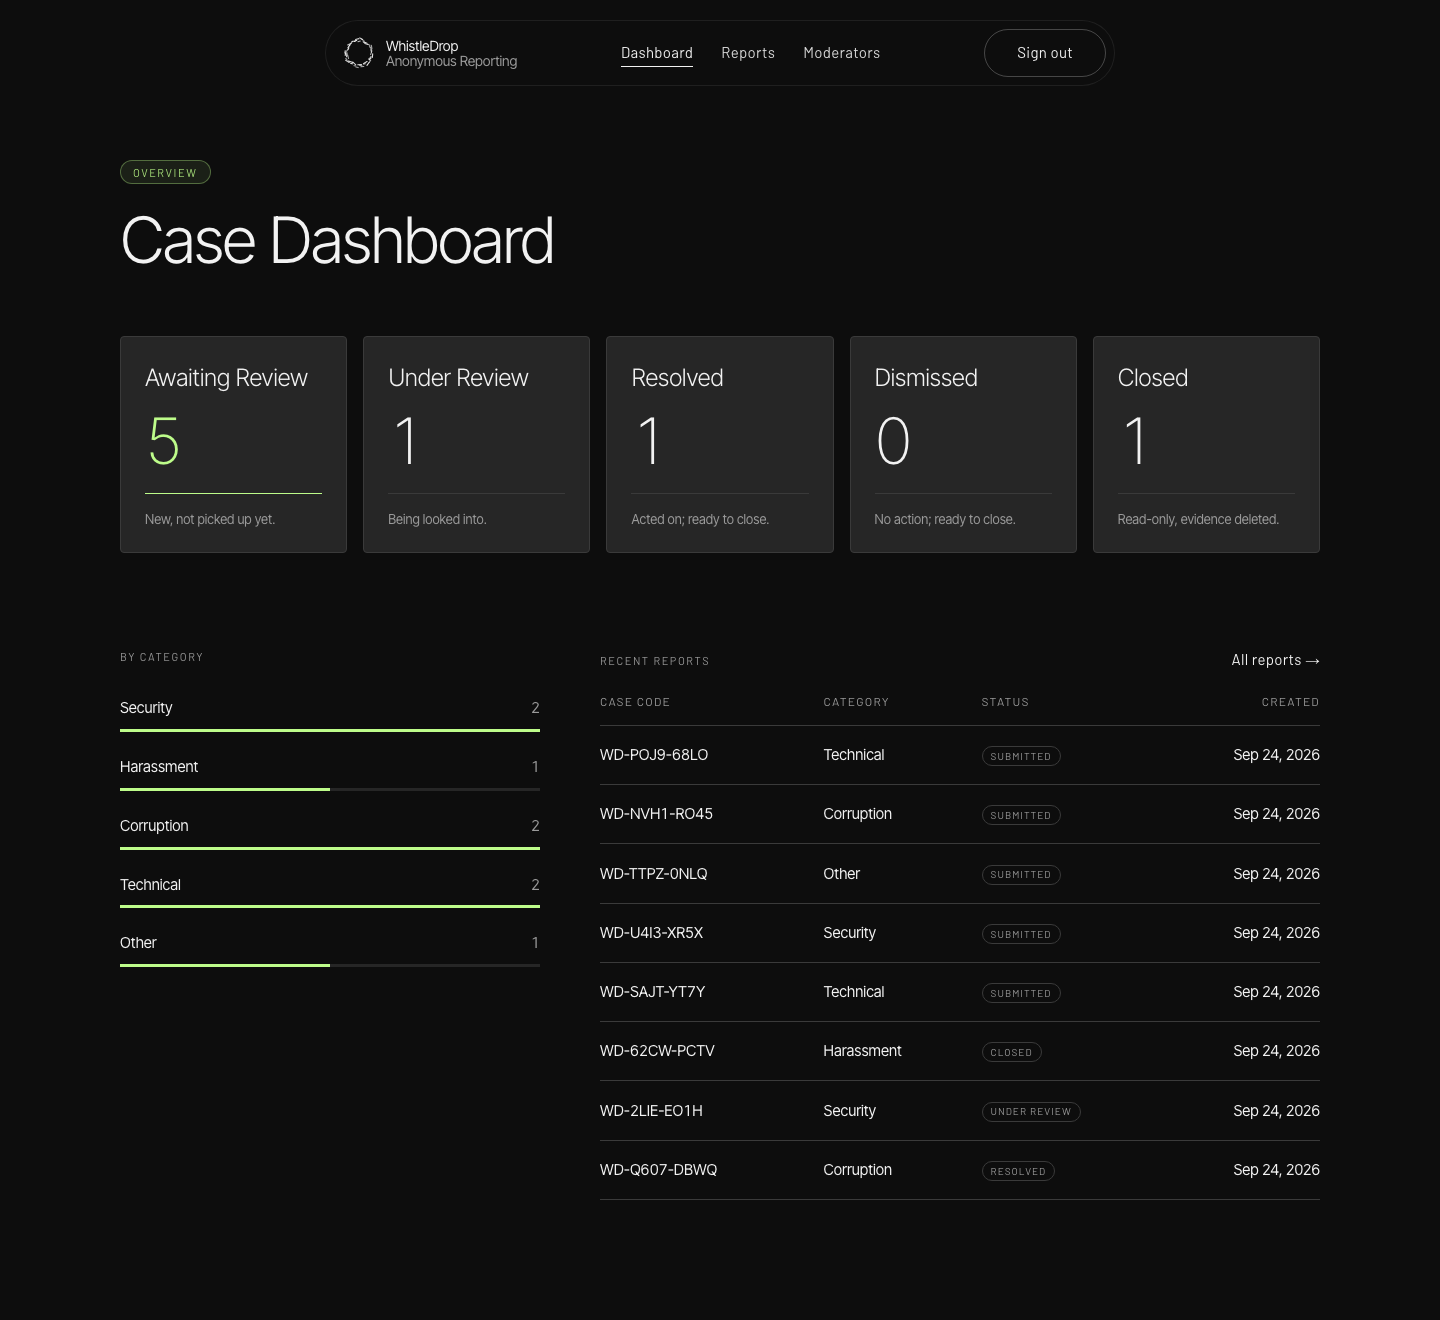
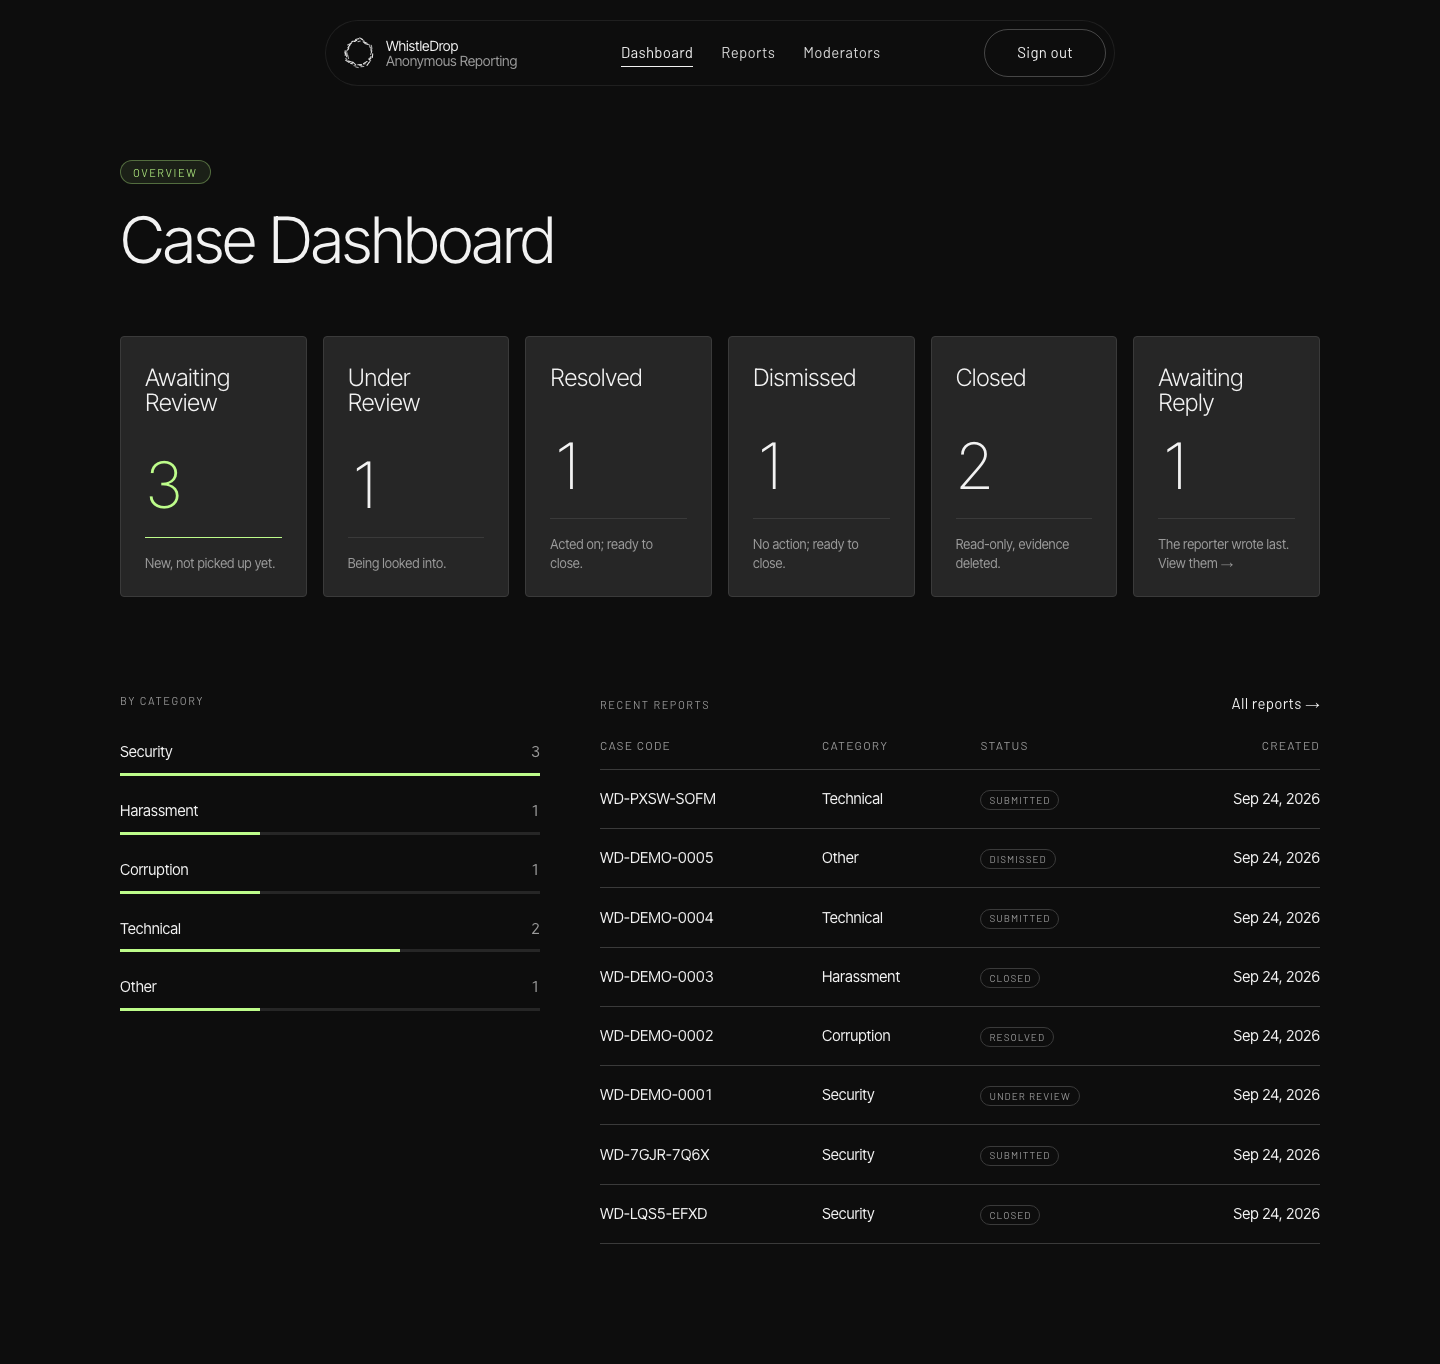
docs: add demo preview and regenerated screenshots
- README (app and landing): a Demo section with the preview GIF linked to
  the live site's walkthrough, the chapter list and DUMMY_SIGN_INS.txt;
  `npm run record:demo` documented; CSP media-src and the self-hosted
  video noted.
- docs/demo/demo-preview.gif: a 13-second loop of the conversation step.
- docs/screenshots: regenerated with only the demo accounts and the
  fictional WD-DEMO sample cases.

diff --git a/whistledrop/README.md b/whistledrop/README.md
@@ -13,6 +13,23 @@
 - **Source:** https://github.com/maanit-gupta/WhistleDrop
 - **Try it as a moderator:** public demo accounts and sample case codes are in [`DUMMY_SIGN_INS.txt`](DUMMY_SIGN_INS.txt) (see [Demo accounts](#demo-accounts)).
 
+## Demo
+
+<a href="<LIVE_URL>/#demo"><img src="docs/demo/demo-preview.gif" alt="WhistleDrop walkthrough: the reporter sees the review team's question and answers anonymously" width="800"></a>
+
+*[Watch the full walkthrough on the live site](<LIVE_URL>/#demo)* (2:18, no sound).
+
+The video is a real session on the app, recorded by `npm run record:demo`. Its chapters:
+
+1. **Submit** (0:05): a report is written and sent with an image attached; the case code is copied and saved.
+2. **Track** (0:23): the case code shows the report as Submitted, with an empty conversation.
+3. **Review** (0:29): a moderator signs in, finds the case, starts the review with a public note, adds an internal note and asks the reporter a question.
+4. **Conversation** (1:08): the reporter sees the question from the review team (the internal note isn't there) and answers; the moderator reads it and resolves the case.
+5. **Close** (1:38): the case is closed permanently; evidence is deleted and the reporter can still read the whole conversation, but not reply.
+6. **Admin** (1:57): a demo admin tries to deactivate a demo account and the server refuses; then the API docs.
+
+To try it yourself, the demo moderator and admin accounts are in [`DUMMY_SIGN_INS.txt`](DUMMY_SIGN_INS.txt).
+
 ## Contents
 
 1. [Overview](#overview)
@@ -46,7 +63,7 @@ WhistleDrop is my submission for the GDG on Campus SRM Technical Domain brief, *
 
 ## Screenshots
 
-Captured from the production build by `npm run screenshots` at 1440 px (desktop) and 390 px (mobile). Full-size images are in [`docs/screenshots/`](docs/screenshots/).
+Captured from the production build by `npm run screenshots` at 1440 px (desktop) and 390 px (mobile), using only the demo accounts and the fictional `WD-DEMO` sample cases. Full-size images are in [`docs/screenshots/`](docs/screenshots/).
 
 ### Reporter
 
@@ -200,9 +217,10 @@ whistledrop/
 │   └── client/                          Browser-only: typed API client, session (sessionStorage), case code input
 ├── proxy.ts                             Next.js proxy (formerly middleware): per-request CSP nonce for pages
 ├── prisma/                              schema.prisma, migrations/, seed.ts (first admin), seed-demo.ts (demo accounts + cases)
-├── scripts/                             setup-storage.ts, check-env.ts, deactivate-account.ts, copy-swagger-ui.mjs, screenshots.mjs
+├── scripts/                             setup-storage.ts, check-env.ts, deactivate-account.ts, record-demo.ts, screenshots.mjs, copy-swagger-ui.mjs
 ├── tests/                               Unit, integration/ and e2e/ suites plus helpers/
-├── docs/                                Frontend API contract and screenshots
+├── docs/                                Frontend API contract, screenshots, and demo/ (the README's preview GIF)
+├── public/media/                        demo.mp4 and demo-poster.jpg for the home page's Demo section
 ├── DUMMY_SIGN_INS.txt                   Public demo credentials and sample case codes for reviewers
 ├── compose.test.yml                     Disposable Postgres for the integration tests
 └── vercel.json                          Daily cron schedule
@@ -329,7 +347,7 @@ To stop an upload token being used twice, its `jti` (a random UUID) is recorded 
 
 ### Headers
 
-- **Nonce-based CSP on pages.** `proxy.ts` gives every page request a fresh nonce: `script-src 'self' 'nonce-…' 'strict-dynamic'`, plus `'unsafe-eval'` in development only. Next.js adds the nonce to its own scripts, and anything else, such as an injected `<script>`, is blocked. Fonts and images are same-origin, `connect-src` allows only our origin and the Supabase project (for direct uploads), framing and plugins are blocked, and `<base>` and form targets are limited to our own origin. API routes get a fixed same-origin policy, and `/api-docs` gets that policy plus what Swagger UI needs.
+- **Nonce-based CSP on pages.** `proxy.ts` gives every page request a fresh nonce: `script-src 'self' 'nonce-…' 'strict-dynamic'`, plus `'unsafe-eval'` in development only. Next.js adds the nonce to its own scripts, and anything else, such as an injected `<script>`, is blocked. Fonts, images and media (`media-src 'self'`, for the demo video) are same-origin, `connect-src` allows only our origin and the Supabase project (for direct uploads), framing and plugins are blocked, and `<base>` and form targets are limited to our own origin. API routes get a fixed same-origin policy, and `/api-docs` gets that policy plus what Swagger UI needs.
 - **The `style-src` tradeoff.** Page styles allow `'unsafe-inline'`. React renders `style` attributes (the UI uses them for transforms and progress bars), and nonces can't cover style attributes. Inline styles can't run code, so scripts stay strict.
 - **`Referrer-Policy: no-referrer`** on every response (and in the page metadata), so leaving WhistleDrop never tells the next site where the visitor came from.
 - **`Cache-Control: no-store`** on every API response, so reports aren't kept in browser or proxy caches.
@@ -338,6 +356,7 @@ To stop an upload token being used twice, its `jti` (a random UUID) is recorded 
 ### No third parties
 
 - **No analytics** of any kind: no Vercel Analytics, no Speed Insights, no tag managers, no third-party scripts.
+- **Self-hosted demo video.** The walkthrough on the home page is a local MP4 in a native `<video>` element: no YouTube or Vimeo embed, no third-party player, no autoplay (and no audio track), and only its metadata is fetched until the visitor presses play.
 - **Self-hosted fonts.** `next/font` downloads the fonts at build time and serves them from `/_next/static`, so browsers never contact Google Fonts. The CSP's `font-src 'self'` would block them anyway.
 - **Swagger UI is self-hosted with its validator disabled.** Its assets are copied from `swagger-ui-dist` into `public/api-docs/vendor/` on install. Its default validator badge, which sends the spec URL to `validator.swagger.io`, is turned off (`validatorUrl: null`). The authorization token is kept in memory only.
 - **Scarf telemetry is blocked.** `swagger-ui-dist` depends on `@scarf/scarf`, whose install script reports downloads to Scarf. The `allowScripts` allowlist in `package.json` doesn't include it, so the script never runs.
@@ -783,7 +802,7 @@ npm run test:db:down      # stop and discard the test database
 
 - **Unit tests** (`tests/*.test.ts`, with Prisma, Storage and Upstash replaced by fakes): report submission and lookup, including that request headers never reach the database; moderator login and the auth guard on every moderator route; the transition rules and the status route; rate limiting and IP hashing; environment validation; and that the client-side validation matches the server schemas.
 - **Integration tests** (`tests/integration/`, with real Prisma, migrations, transactions and row locks; Storage replaced by an in-memory fake; image sanitizing uses the real sharp): submission and lookup (GET and POST), the conversation (reporter and moderator messages, no moderator identity or INTERNAL notes in the public view, `awaitingReply` toggling and filtering, 423 after close for both sides, a message racing a close, the reporter message rate limit, identical 404s), internal notes, the demo-account protections, the demo seed's idempotency, and the cron's demo-account reset, as well as login, status transitions, closing and read-only enforcement, evidence purge on close, PUBLIC vs INTERNAL notes and the audit trail, search, filters, sorting and pagination, role enforcement and admin self-protection including the last-admin rule, uploads (type, size and magic-byte checks, EXIF removal for JPEG, PNG and WebP, token reuse and rollback), attachment downloads, and the cleanup cron.
-- **End-to-end tests** (`tests/e2e/`, against `next start`, run twice from one build: `DEMO_MODE=false` and `DEMO_MODE=true`): the page CSP nonce matches every script Next.js renders, and API routes and `/api-docs` keep their fixed policies; the demo banner appears on Home, Report and Track (in warm paper and dark ink) only in demo mode; and in demo mode the report form won't submit until the acknowledgement is ticked. The browser tests need Chromium: `npx playwright install chromium` once.
+- **End-to-end tests** (`tests/e2e/`, against `next start`, run twice from one build: `DEMO_MODE=false` and `DEMO_MODE=true`): the page CSP nonce matches every script Next.js renders (and pages allow `media-src 'self'` only), and API routes and `/api-docs` keep their fixed policies; the home page's Demo section uses a local, non-autoplaying native video whose chapter buttons seek to their timestamps, and the nav's Demo link reaches it from any page; the demo banner appears on Home, Report and Track (in warm paper and dark ink) only in demo mode; and in demo mode the report form won't submit until the acknowledgement is ticked. The browser tests need Chromium: `npx playwright install chromium` once.
 
 ### Screenshots
 
@@ -792,7 +811,25 @@ npx playwright install chromium   # once
 npm run screenshots
 ```
 
-This builds the app, starts it on port 3123, creates data **through the real API only** (it submits reports and signs in with the `SEED_ADMIN_EMAIL` / `SEED_ADMIN_PASSWORD` or `SEED_MODERATOR_*` account from `.env.local`), and saves desktop and mobile screenshots to `docs/screenshots/`. `npm run screenshots -- --only=dashboard,reports` retakes selected pages. The case code screen is a real submission, so it counts toward the 10-per-hour report limit.
+This builds the app, seeds or restores the demo accounts and sample cases in the `.env.local` database (like `npm run seed:demo -- --force`), starts the app on port 3123, signs in as `admin@whistledrop.demo`, and saves desktop and mobile screenshots to `docs/screenshots/`. `npm run screenshots -- --only=dashboard,reports` retakes selected pages. The case code screen is a real submission (it counts toward the 10-per-hour report limit), and that report is deleted afterwards. On the Moderators page only demo accounts are passed to the browser, so no personal address can end up in a screenshot.
+
+### Demo video
+
+```bash
+npx playwright install chromium   # once
+npm run record:demo
+```
+
+This records the walkthrough shown in the home page's Demo section (`scripts/record-demo.ts`). It:
+
+1. seeds the demo accounts and sample cases in the **development** database (`.env.local`) and restores the samples to their seeded state;
+2. builds the app and starts `next start` (with `DEMO_MODE=false`, so the video shows the normal product);
+3. drives Chromium through the whole journey at 1440×900 with Playwright's `recordVideo`, typing and clicking at human speed. A caption bar naming each step and a visible cursor are injected into the page by the script only; neither exists in the app;
+4. trims the time spent waiting on the network (a remote database makes each write take seconds), then converts the recording with the `ffmpeg-static` package (no system ffmpeg needed) into `public/media/demo.mp4` (H.264, 1440 wide, under 15 MB), `public/media/demo-poster.jpg` (a frame from the conversation step) and `docs/demo/demo-preview.gif` (a 13-second loop under 8 MB, because GitHub doesn't play repository MP4 files inline in a README);
+5. writes the chapter timestamps into `lib/demo.ts` (`DEMO_CHAPTERS`), which the chapter buttons use;
+6. deletes the report it created, so a re-run starts clean.
+
+It uses real rate limits (one report, two sign-ins, a few lookups). Commit the regenerated media together with `lib/demo.ts`.
 
 ## Deployment (Vercel)
 

diff --git a/README.md b/README.md
@@ -18,6 +18,12 @@ An anonymous reporting service. Submit a report without an account, get a case c
 
 </div>
 
+## Demo
+
+<a href="<LIVE_URL>/#demo"><img src="whistledrop/docs/demo/demo-preview.gif" alt="WhistleDrop walkthrough: the reporter sees the review team's question and answers anonymously" width="760"></a>
+
+*[Watch the full walkthrough on the live site](<LIVE_URL>/#demo)* (2:18, no sound): Submit · Track · Review · Conversation · Close · Admin. To try it yourself, the demo moderator accounts are in [`DUMMY_SIGN_INS.txt`](whistledrop/DUMMY_SIGN_INS.txt).
+
 ## What it is
 
 WhistleDrop is my submission for the **GDG on Campus SRM** Technical Domain brief, *"WhistleDrop — Speak Without Being Seen"*.
